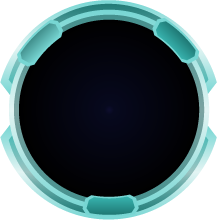
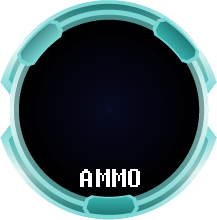
Municion limitada y medidor de municion (sorry Carlos pero te machaco)

diff --git a/src/main/resources/static/src/states/game.js b/src/main/resources/static/src/states/game.js
@@ -3,6 +3,10 @@ Spacewar.gameState = function(game) {
 	this.fireBullet
 	this.numStars = 100 // Should be canvas size dependant
 	this.maxProjectiles = 800 // 8 per player
+	this.playerAmmo
+	this.ammoButton
+	this.ammoText
+	this.bulletIsFired = false
 }
 
 Spacewar.gameState.prototype = {
@@ -64,11 +68,15 @@ Spacewar.gameState.prototype = {
 	create : function() {
 		this.bulletTime = 0
 		this.fireBullet = function() {
-			if (game.time.now > this.bulletTime) {
+			if (game.time.now > this.bulletTime && game.global.myPlayer.ammo > 0) {
 				this.bulletTime = game.time.now + 250;
+				game.global.myPlayer.ammo -= 1;
+				this.playerAmmo = game.global.myPlayer.ammo - 1;
 				// this.weapon.fire()
+				this.bulletIsFired = true;
 				return true
 			} else {
+				this.playerAmmo = game.global.myPlayer.ammo;
 				return false
 			}
 		}
@@ -87,9 +95,9 @@ Spacewar.gameState.prototype = {
 		game.camera.follow(game.global.myPlayer.image);
 		
 		ammoButton = game.add.sprite(10,10, 'ammo');
-		ammoButton.inputEnabled = true;
 		var style = { fontSize: "48px", fill: "#ff0000"};
-		ammoButton.addChild (scoreText = game.add.text(95,80, '0', style));
+		ammoButton.addChild(this.ammoText = game.add.text(95,80, game.global.myPlayer.ammo.toString(), style));
+		ammoButton.inputEnabled = true;		
 		ammoButton.fixedToCamera = true;
 		ammoButton.scale.setTo(0.6,0.6);
 		
@@ -125,6 +133,14 @@ Spacewar.gameState.prototype = {
 			msg.movement.rotRight = true;
 		if (this.spaceKey.isDown) {
 			msg.bullet = this.fireBullet()
+			msg.ammo = this.playerAmmo;
+		}
+
+		//update ammo icon
+		if (this.bulletIsFired){
+			this.ammoText.destroy();
+			var style = { fontSize: "48px", fill: "#ff0000"};
+			ammoButton.addChild(this.ammoText = game.add.text(95,80, game.global.myPlayer.ammo.toString(), style));
 		}
 
 		if (game.global.DEBUG_MODE) {

diff --git a/target/classes/static/src/states/game.js b/target/classes/static/src/states/game.js
@@ -3,6 +3,10 @@ Spacewar.gameState = function(game) {
 	this.fireBullet
 	this.numStars = 100 // Should be canvas size dependant
 	this.maxProjectiles = 800 // 8 per player
+	this.playerAmmo
+	this.ammoButton
+	this.ammoText
+	this.bulletIsFired = false
 }
 
 Spacewar.gameState.prototype = {
@@ -64,11 +68,15 @@ Spacewar.gameState.prototype = {
 	create : function() {
 		this.bulletTime = 0
 		this.fireBullet = function() {
-			if (game.time.now > this.bulletTime) {
+			if (game.time.now > this.bulletTime && game.global.myPlayer.ammo > 0) {
 				this.bulletTime = game.time.now + 250;
+				game.global.myPlayer.ammo -= 1;
+				this.playerAmmo = game.global.myPlayer.ammo - 1;
 				// this.weapon.fire()
+				this.bulletIsFired = true;
 				return true
 			} else {
+				this.playerAmmo = game.global.myPlayer.ammo;
 				return false
 			}
 		}
@@ -87,9 +95,9 @@ Spacewar.gameState.prototype = {
 		game.camera.follow(game.global.myPlayer.image);
 		
 		ammoButton = game.add.sprite(10,10, 'ammo');
-		ammoButton.inputEnabled = true;
 		var style = { fontSize: "48px", fill: "#ff0000"};
-		ammoButton.addChild (scoreText = game.add.text(95,80, '0', style));
+		ammoButton.addChild(this.ammoText = game.add.text(95,80, game.global.myPlayer.ammo.toString(), style));
+		ammoButton.inputEnabled = true;		
 		ammoButton.fixedToCamera = true;
 		ammoButton.scale.setTo(0.6,0.6);
 		
@@ -125,6 +133,14 @@ Spacewar.gameState.prototype = {
 			msg.movement.rotRight = true;
 		if (this.spaceKey.isDown) {
 			msg.bullet = this.fireBullet()
+			msg.ammo = this.playerAmmo;
+		}
+
+		//update ammo icon
+		if (this.bulletIsFired){
+			this.ammoText.destroy();
+			var style = { fontSize: "48px", fill: "#ff0000"};
+			ammoButton.addChild(this.ammoText = game.add.text(95,80, game.global.myPlayer.ammo.toString(), style));
 		}
 
 		if (game.global.DEBUG_MODE) {

diff --git a/src/main/resources/static/src/states/lobby.js b/src/main/resources/static/src/states/lobby.js
@@ -25,6 +25,7 @@ Spacewar.lobbyState.prototype = {
     },
 
     preload : function() {
+    	/*
         game.load.image('lobby','assets/images/lobby.png');
         game.load.image('+','assets/buttons/Play_BTN.png');
         game.load.image('-','assets/buttons/Close_BTN.png');
@@ -33,6 +34,7 @@ Spacewar.lobbyState.prototype = {
         //game.load.image('-A','assets/buttons/Close_BTN_act.png');
         game.load.image('background','assets/images/stars.png');
         game.load.image('roombg','assets/images/buttongbg.png');
+        */
         
 
     },
@@ -59,7 +61,7 @@ Spacewar.lobbyState.prototype = {
         room.anchor.setTo(0.5, 0.5);
       
         var style = { font: "45px Arial", fill: "#ffffff", align: "center" };
-        lobby.addChild(ltext = game.add.text(-60, -330, "Lobby", style));
+        lobby.addChild(lText = game.add.text(0, -310, "LOBBY", style));
         lText.anchor.setTo(0.5,0.5);
 
     },

diff --git a/target/classes/static/src/states/lobby.js b/target/classes/static/src/states/lobby.js
@@ -25,6 +25,7 @@ Spacewar.lobbyState.prototype = {
     },
 
     preload : function() {
+    	/*
         game.load.image('lobby','assets/images/lobby.png');
         game.load.image('+','assets/buttons/Play_BTN.png');
         game.load.image('-','assets/buttons/Close_BTN.png');
@@ -33,6 +34,7 @@ Spacewar.lobbyState.prototype = {
         //game.load.image('-A','assets/buttons/Close_BTN_act.png');
         game.load.image('background','assets/images/stars.png');
         game.load.image('roombg','assets/images/buttongbg.png');
+        */
         
 
     },
@@ -59,7 +61,7 @@ Spacewar.lobbyState.prototype = {
         room.anchor.setTo(0.5, 0.5);
       
         var style = { font: "45px Arial", fill: "#ffffff", align: "center" };
-        lobby.addChild(ltext = game.add.text(-60, -330, "Lobby", style));
+        lobby.addChild(lText = game.add.text(0, -310, "LOBBY", style));
         lText.anchor.setTo(0.5,0.5);
 
     },

diff --git a/src/main/resources/static/src/states/preload.js b/src/main/resources/static/src/states/preload.js
@@ -17,9 +17,18 @@ Spacewar.preloadState.prototype = {
 		game.load.atlas('explosion', 'assets/atlas/explosion.png',
 				'assets/atlas/explosion.json',
 				Phaser.Loader.TEXTURE_ATLAS_JSON_HASH)
-				
+		
 		game.load.image('health2','assets/spaceship/hp_bar_2.png');
 		game.load.image('health1','assets/spaceship/hp_bar_1.png');
+		//Imagenes del lobby
+		game.load.image('lobby','assets/images/lobby.png');
+        game.load.image('+','assets/buttons/Play_BTN.png');
+        game.load.image('-','assets/buttons/Close_BTN.png');
+        game.load.image('start','assets/buttons/Start_BTN.png');
+        //game.load.image('+A','assets/buttons/Play_BTN_act.png');
+        //game.load.image('-A','assets/buttons/Close_BTN_act.png');
+        game.load.image('background','assets/images/stars.png');
+        game.load.image('roombg','assets/images/buttongbg.png');
 	},
 
 	create : function() {

diff --git a/target/classes/static/src/states/preload.js b/target/classes/static/src/states/preload.js
@@ -17,9 +17,18 @@ Spacewar.preloadState.prototype = {
 		game.load.atlas('explosion', 'assets/atlas/explosion.png',
 				'assets/atlas/explosion.json',
 				Phaser.Loader.TEXTURE_ATLAS_JSON_HASH)
-				
+		
 		game.load.image('health2','assets/spaceship/hp_bar_2.png');
 		game.load.image('health1','assets/spaceship/hp_bar_1.png');
+		//Imagenes del lobby
+		game.load.image('lobby','assets/images/lobby.png');
+        game.load.image('+','assets/buttons/Play_BTN.png');
+        game.load.image('-','assets/buttons/Close_BTN.png');
+        game.load.image('start','assets/buttons/Start_BTN.png');
+        //game.load.image('+A','assets/buttons/Play_BTN_act.png');
+        //game.load.image('-A','assets/buttons/Close_BTN_act.png');
+        game.load.image('background','assets/images/stars.png');
+        game.load.image('roombg','assets/images/buttongbg.png');
 	},
 
 	create : function() {

diff --git a/src/main/resources/static/src/index.js b/src/main/resources/static/src/index.js
@@ -40,6 +40,7 @@ window.onload = function() {
 			game.global.myPlayer.id = msg.id
 			game.global.myPlayer.shipType = msg.shipType
 			game.global.myPlayer.username = msg.username
+			game.global.myPlayer.ammo = msg.ammo
 			if (game.global.DEBUG_MODE) {
 				console.log('[DEBUG] ID assigned to player: ' + game.global.myPlayer.id)
 			}

diff --git a/target/classes/static/src/index.js b/target/classes/static/src/index.js
@@ -40,6 +40,7 @@ window.onload = function() {
 			game.global.myPlayer.id = msg.id
 			game.global.myPlayer.shipType = msg.shipType
 			game.global.myPlayer.username = msg.username
+			game.global.myPlayer.ammo = msg.ammo
 			if (game.global.DEBUG_MODE) {
 				console.log('[DEBUG] ID assigned to player: ' + game.global.myPlayer.id)
 			}

diff --git a/src/main/java/spacewar/WebsocketGameHandler.java b/src/main/java/spacewar/WebsocketGameHandler.java
@@ -31,6 +31,7 @@ public class WebsocketGameHandler extends TextWebSocketHandler {
 		msg.put("id", player.getPlayerId());
 		msg.put("shipType", player.getShipType());
 		msg.put("username", player.getUsername());
+		msg.put("ammo", player.getAmmo());
 		player.getSession().sendMessage(new TextMessage(msg.toString()));
 		
 		game.addPlayer(player);
@@ -49,6 +50,7 @@ public class WebsocketGameHandler extends TextWebSocketHandler {
 				msg.put("id", player.getPlayerId());
 				msg.put("shipType", player.getShipType());
 				msg.put("username", player.getUsername());
+				msg.put("ammo", player.getAmmo());
 				player.getSession().sendMessage(new TextMessage(msg.toString()));
 				break;
 			case "JOIN ROOM":
@@ -64,6 +66,7 @@ public class WebsocketGameHandler extends TextWebSocketHandler {
 				if (node.path("bullet").asBoolean() && player.getDeath() == false) {
 					Projectile projectile = new Projectile(player, this.projectileId.incrementAndGet());
 					game.addProjectile(projectile.getId(), projectile);
+					player.setAmmo(node.path("ammo").asInt());
 				}
 				break;
 			case "UPDATE NAME":

diff --git a/src/main/java/spacewar/Player.java b/src/main/java/spacewar/Player.java
@@ -12,6 +12,7 @@ public class Player extends Spaceship {
 	private final String shipType;
 	private String username;
 	private float health;
+	private int ammo;
 	
 	private boolean _dead;
 
@@ -19,7 +20,8 @@ public class Player extends Spaceship {
 		this.playerId = playerId;
 		this.username = "Unknown";
 		this.health = 100.0f;
-		
+		//Cambiar esta linea (hay que mandar el numero max de proyectiles)
+		this.ammo = 8;
 		this._dead = false;
 		
 		this.session = session;
@@ -87,5 +89,13 @@ public class Player extends Spaceship {
 	@Override
 	public String toString() {
 		return this.username;
+	}
+
+	public int getAmmo() {
+		return ammo;
+	}
+
+	public void setAmmo(int ammo) {
+		this.ammo = ammo;
 	}
 }

diff --git a/src/main/java/spacewar/SpacewarGame.java b/src/main/java/spacewar/SpacewarGame.java
@@ -113,6 +113,7 @@ public class SpacewarGame {
 				jsonPlayer.put("shipType", player.getShipType());
 				jsonPlayer.put("username", player.getUsername());
 				jsonPlayer.put("health", player.getHealth());
+				jsonPlayer.put("ammo", player.getAmmo());
 				jsonPlayer.put("death", player.getDeath());
 				jsonPlayer.put("posX", player.getPosX());
 				jsonPlayer.put("posY", player.getPosY());
